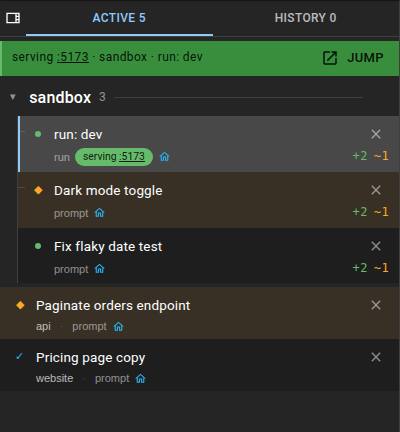
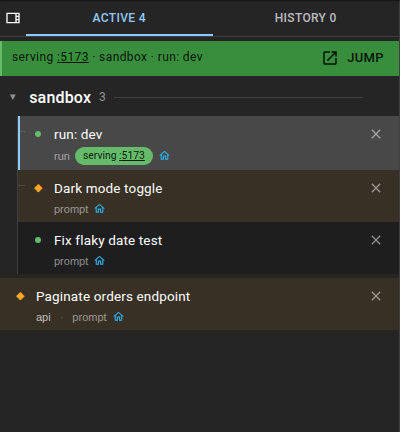
docs: own scene for dev server shot

diff --git a/docs/src/content/docs/code-quality.md b/docs/src/content/docs/code-quality.md
@@ -69,3 +69,5 @@ Agents can't add code comments by editing a file. When an agent believes one com
 ```bash
 assist config set complexity.ignore "**/*test.ts*,src/generated/**"
 ```
+
+To give one file its own minimum score in place of `--threshold`, add a `// MAINT_MARKER: 40` comment in its first ten lines, with a score from 0 to 100. Agents can't add, change or remove it, so lowering a file's bar stays your decision.

diff --git a/docs/src/content/docs/run-commands.md b/docs/src/content/docs/run-commands.md
@@ -12,8 +12,8 @@ screenshots:
   - file: run-dev-server.png
     alt: The serving banner at the top of the session list, linking to the dev server's port, above the session cards
     route: /sessions
-    scene: dashboard
-    waitFor: text=Pricing page copy
+    scene: dev-server
+    waitFor: text=Paginate orders endpoint
     viewport:
       width: 1280
       height: 480
